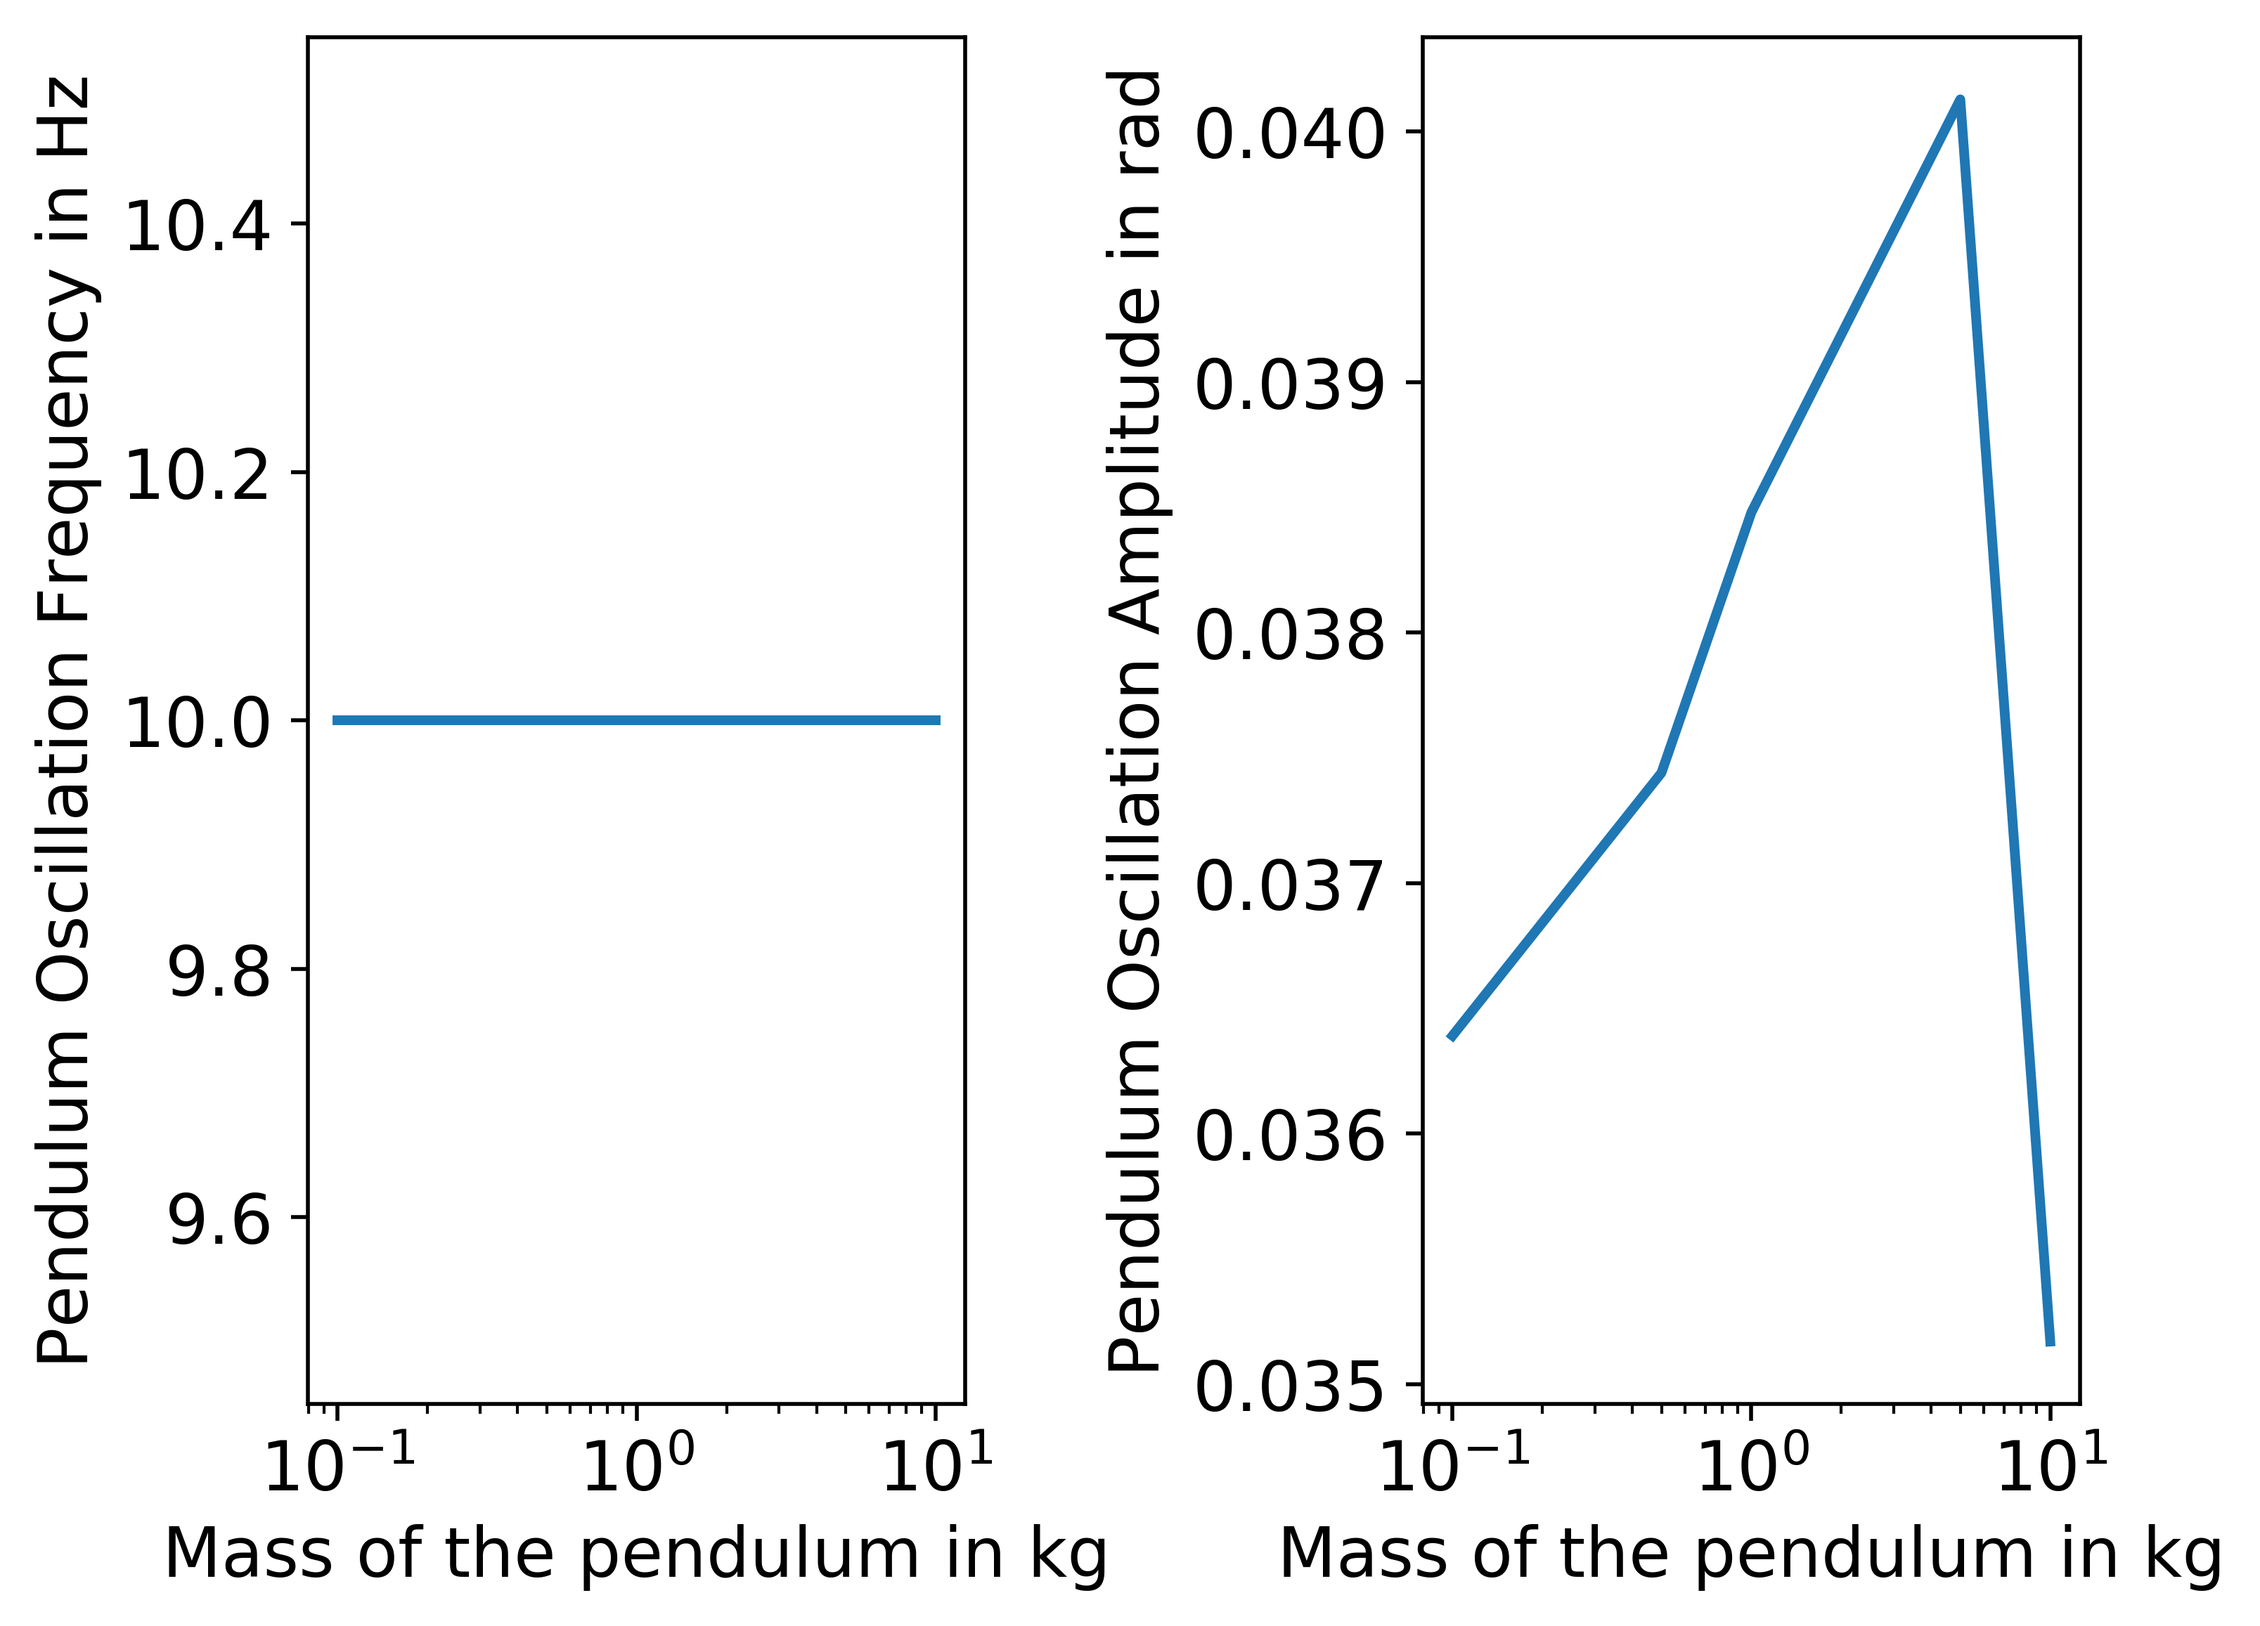
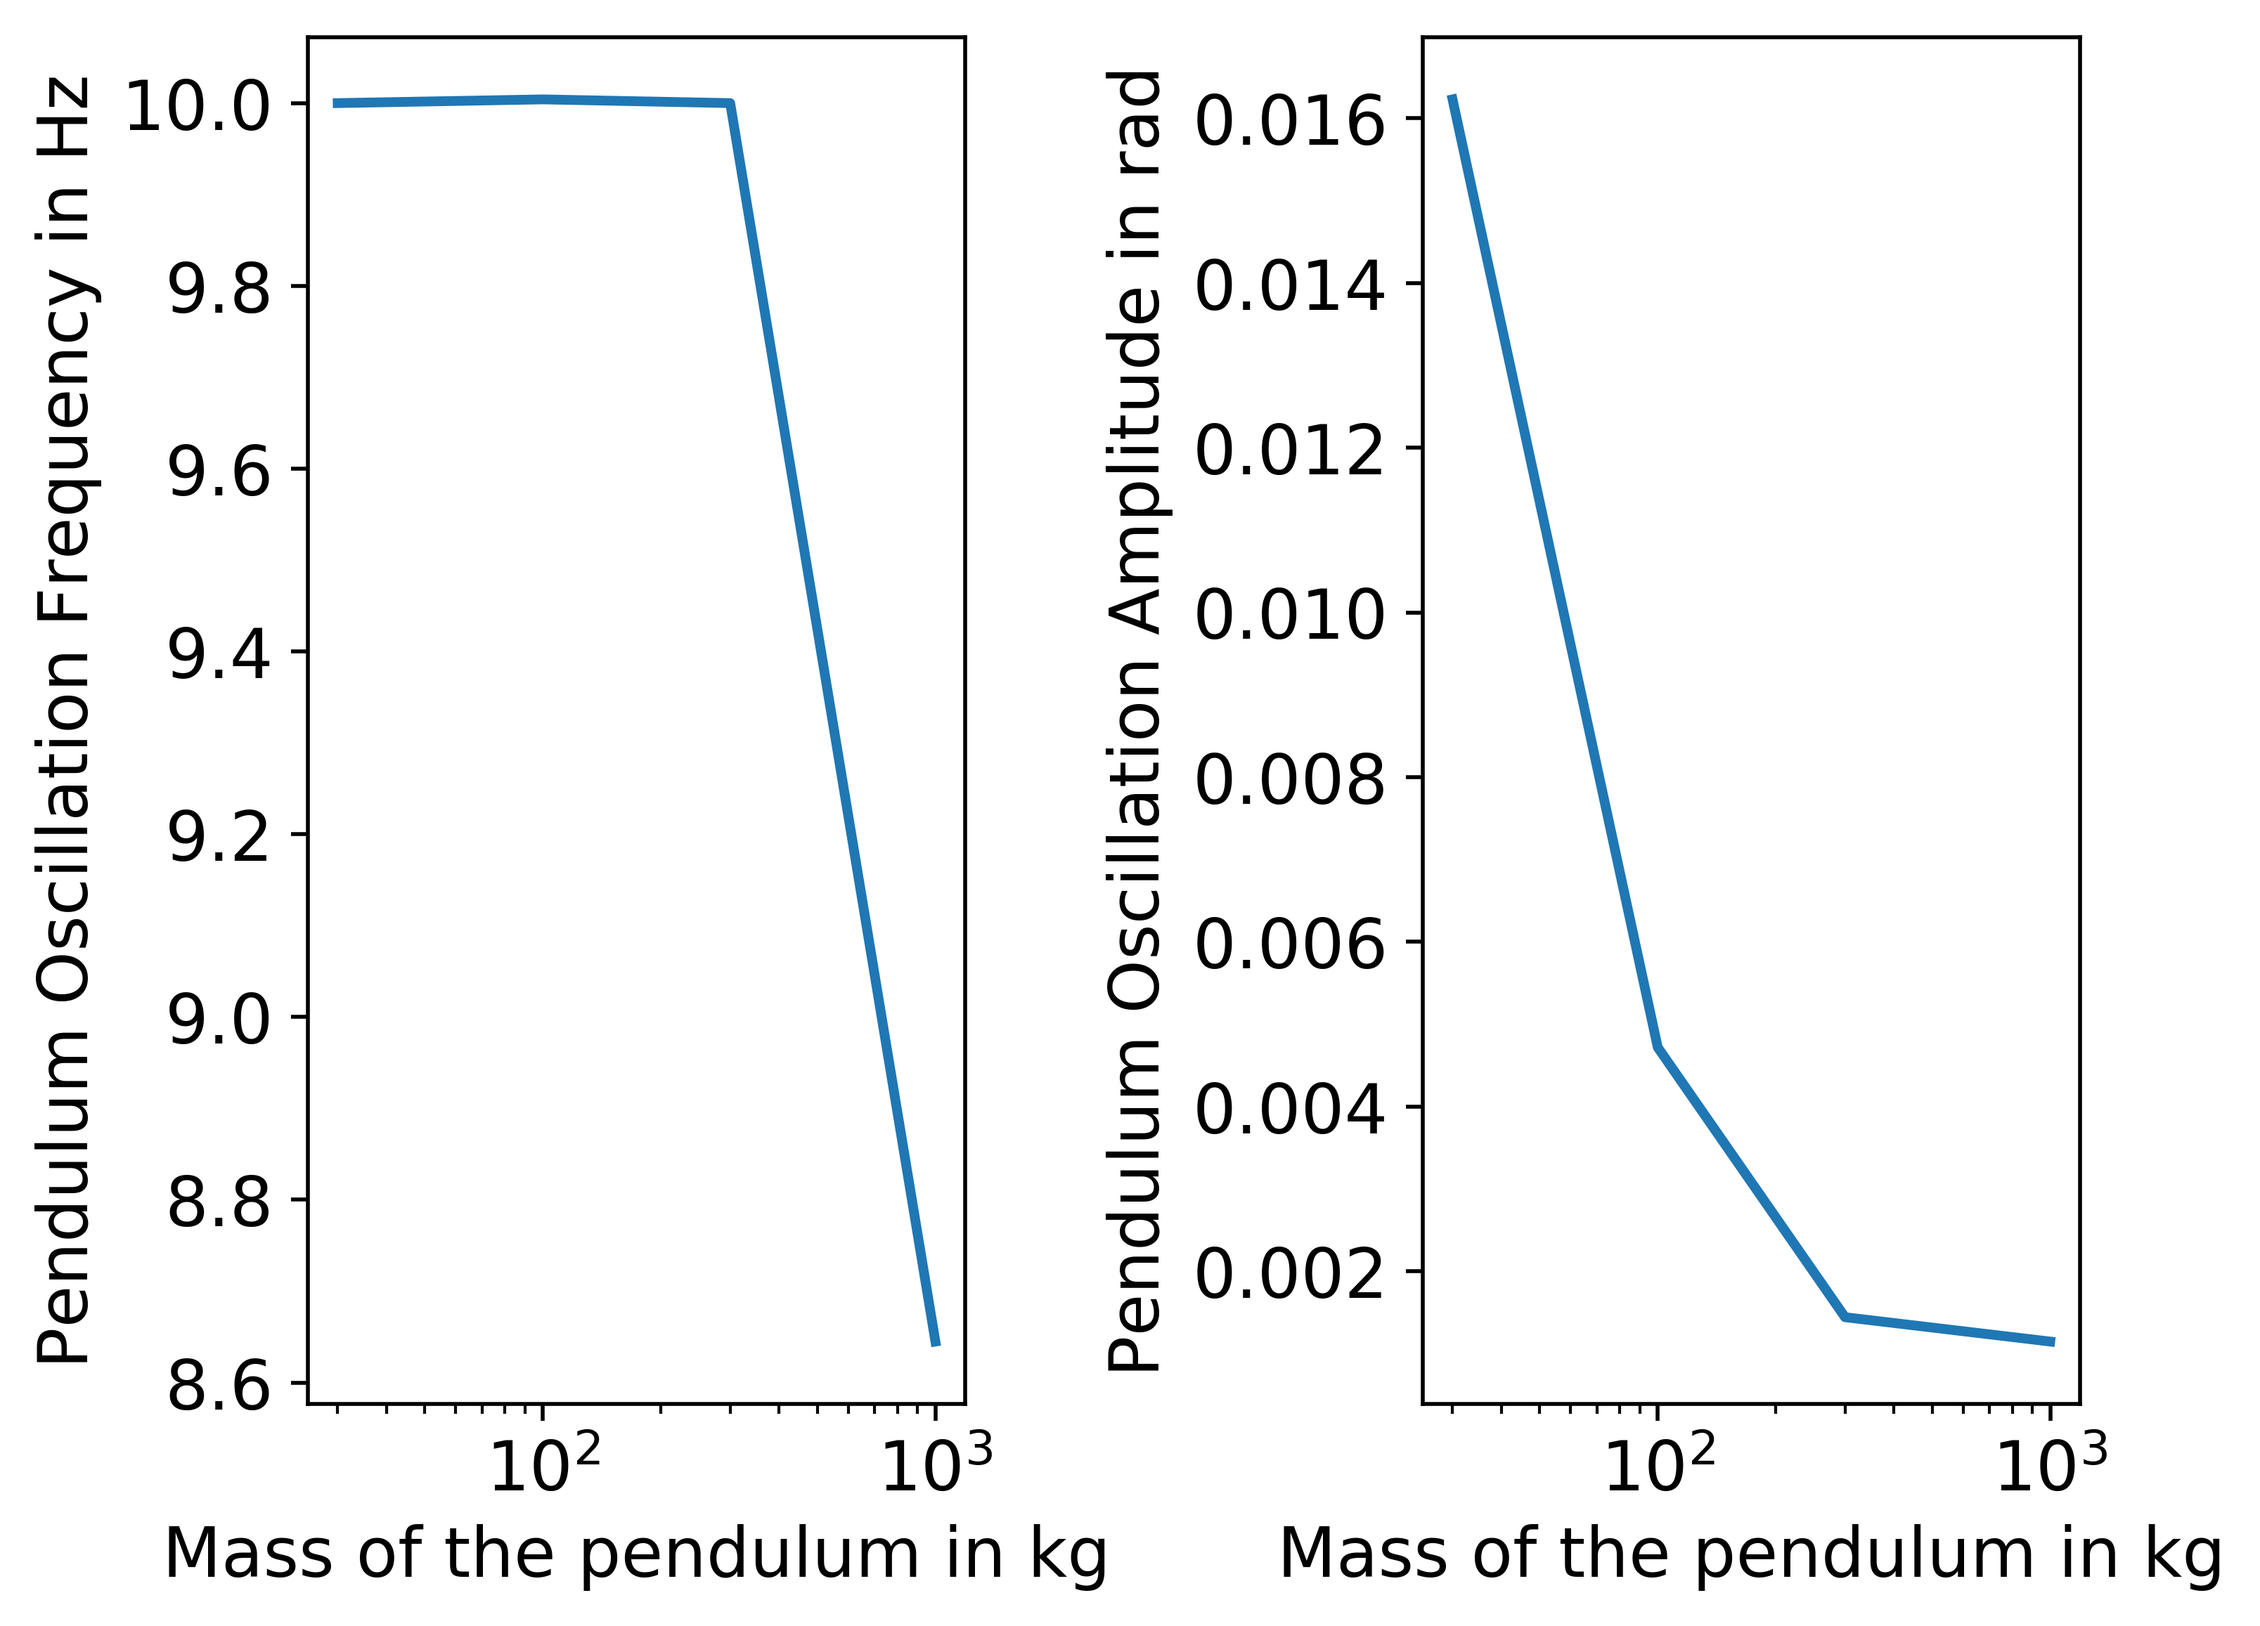
last one ?

diff --git a/Lab5/Python/exercise3d.py b/Lab5/Python/exercise3d.py
@@ -89,7 +89,8 @@ def mass_effect(muscles,pendulum,act1,act2,x0,time,time_step,mass_range):
         sim.simulate()
         res = sim.results()
         angular_position = res[:,1]
-        frequency_pend[i] = find_freq_fft(angular_position,time_step)
+        #frequency_pend[i] = find_frequency(angular_position,time_step)
+        frequency_pend[i] = find_frequency(angular_position,time_step,len(angular_position)/2)
         amplitude_pend[i] = find_amplitude(angular_position, len(angular_position)/2)
     plt.figure()
     plt.subplot(121)
@@ -285,7 +286,8 @@ def exercise3d():
     x0 = np.concatenate((x0_P, x0_M))  # System initial conditions
     
     #Effect of mass
-    mass_range = np.array([0.1,0.5,1,5,10]) #in kg,default mass at 1 kg
+    #mass_range = np.array([0.01,0.03,0.1,0.5,1,5,10,30,100]) #in kg,default mass at 1 kg
+    #mass_range = np.array([30,100,300,1000]) #in kg,default mass at 1 kg
     #mass_effect(muscles,pendulum,act1,act2,x0,time,time_step,mass_range)
     
     #we reinitialize the pendulum
@@ -293,8 +295,8 @@ def exercise3d():
     pendulum = Pendulum(P_params)  # Instantiate Pendulum object
   
     #Effect of length
-    length_range = np.array([0.21,0.3,0.5,1,2,5,10]) #in m, default length at 0.5 m
-    #length_effect(muscles,pendulum,act1,act2,x0,time,time_step,length_range)
+    length_range = np.array([0.21,0.3,0.5,1,2,5,10,50]) #in m, default length at 0.5 m
+    length_effect(muscles,pendulum,act1,act2,x0,time,time_step,length_range)
 
     #we reinitialize the pendulum
     P_params = PendulumParameters()  # Instantiate pendulum parameters
@@ -302,7 +304,7 @@ def exercise3d():
     
     #Effect of inertia
     inertia_range = np.array([0.01,0.03,0.1,0.33,1,3,10]) #in kg.m**2, default inertia at 0.33 kg.m**2
-    inertia_effect(muscles,pendulum,act1,act2,x0,time,time_step,inertia_range)
+    #inertia_effect(muscles,pendulum,act1,act2,x0,time,time_step,inertia_range)
         
     
     #we reinitialize the pendulum

diff --git a/Lab5/Python/exercise3f.py b/Lab5/Python/exercise3f.py
@@ -6,7 +6,7 @@ Created on Sat Apr 28 12:37:46 2018
 @author: manu
 """
 
-""" Lab 5 Exercise 3e
+""" Lab 5 Exercise 3f
 
 This file implements the pendulum system with two muscles attached
 
@@ -47,8 +47,8 @@ def find_amplitude(signal,index_start):
     amplitude = (np.max(signal_stat)-np.min(signal_stat))/2
     return amplitude
 
-def exercise3e():
-    """ Function to run for Exercise 3e.
+def exercise3f():
+    """ Function to run for Exercise 3f.
 
     Parameters
     ----------
